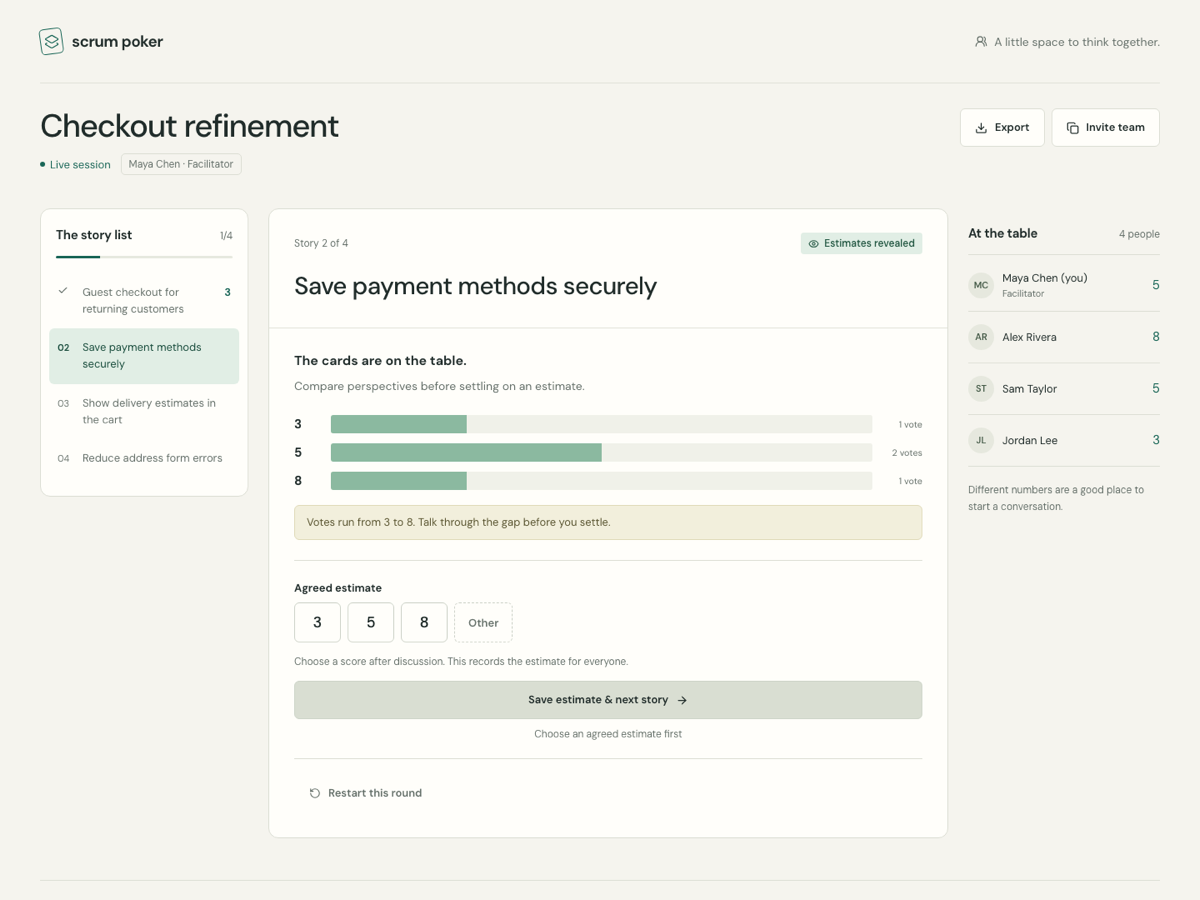
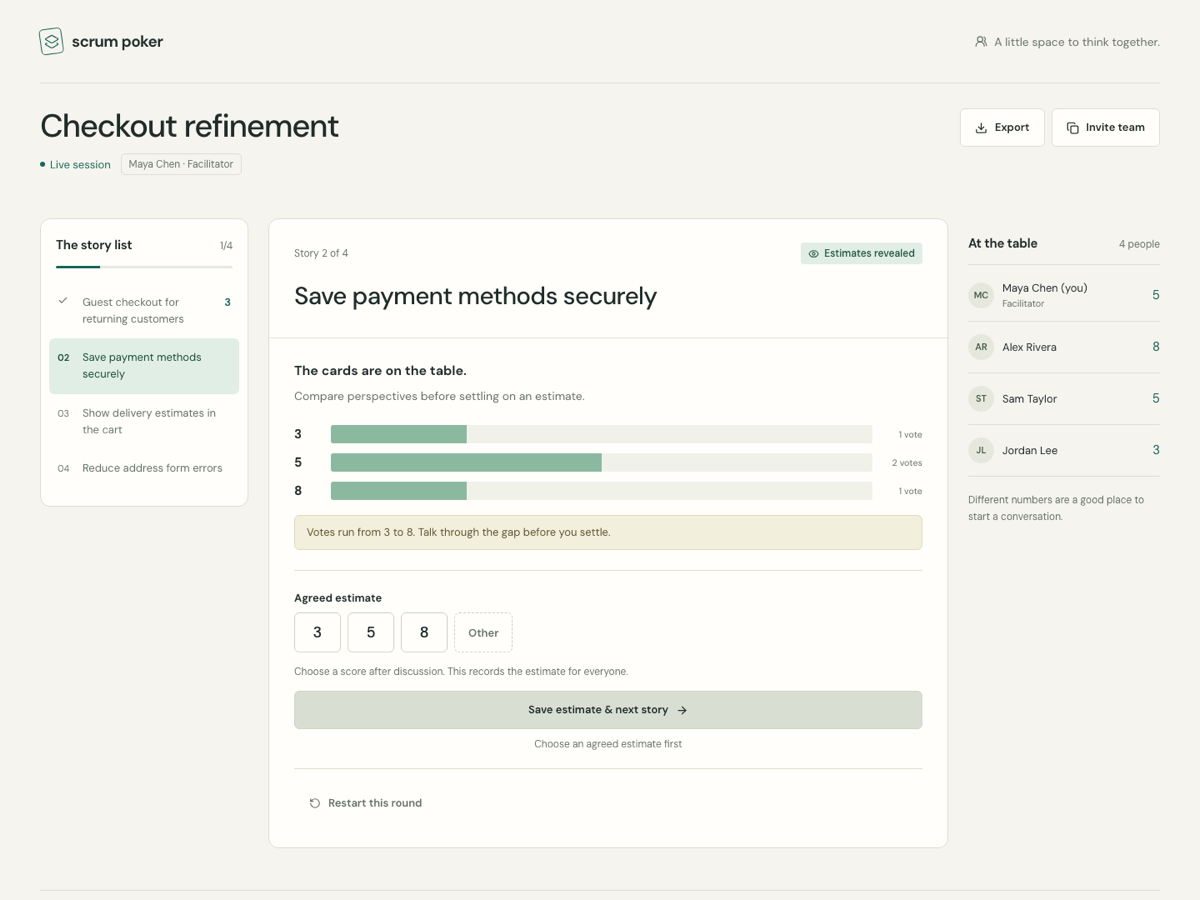
fix(room): focus confirms, clamp long titles and tidy completed state
- focus the primary action when Reveal/Restart confirms open; restore on cancel
- clamp long story titles with a Show full story toggle
- move participant focus to the first card after a round reset
- keep the Saved banner fully in the gap above the card
- hide keyboard legend on touch devices
- drop status icons from the completed roster
- update product/design docs, README and screenshots

diff --git a/src/RoomPage.tsx b/src/RoomPage.tsx
@@ -31,7 +31,7 @@ function Deck({ vote, offline, busy, onVote }: { vote: Estimate | null; offline:
   const latest = useRef({ offline, busy, onVote });
   latest.current = { offline, busy, onVote };
   const [tabStop, setTabStop] = useState(() => Math.max(0, vote ? DECK.indexOf(vote) : 0));
-  useEffect(() => { if (vote) setTabStop(DECK.indexOf(vote)); }, [vote]);
+  useEffect(() => { setTabStop(vote ? DECK.indexOf(vote) : 0); }, [vote]);
   useEffect(() => () => clearTimeout(buffer.current.timer), []);
   function focusCard(index: number) { setTabStop(index); cards.current[index]?.focus(); }
   function clearBuffer() { clearTimeout(buffer.current.timer); buffer.current = { keys: '', timer: undefined }; }
@@ -104,7 +104,14 @@ export function RoomView({ room, connection, busy, error, act, retry }: RoomView
   const [announcement, setAnnouncement] = useState('');
   const [focusTick, setFocusTick] = useState(0);
   const [restarted, setRestarted] = useState(false);
+  const [titleExpanded, setTitleExpanded] = useState(false);
+  const [titleOverflows, setTitleOverflows] = useState(false);
   const heading = useRef<HTMLHeadingElement>(null);
+  const revealButton = useRef<HTMLButtonElement>(null);
+  const revealNow = useRef<HTMLButtonElement>(null);
+  const restartButton = useRef<HTMLButtonElement>(null);
+  const resetConfirm = useRef<HTMLButtonElement>(null);
+  const returnFocus = useRef<'reveal' | 'reset' | null>(null);
   const revealHeading = useRef<HTMLHeadingElement>(null);
   const workspace = useRef<HTMLElement>(null);
   const seen = useRef({ roundId: room.roundId, story: room.currentStory, phase: room.phase });
@@ -123,7 +130,30 @@ export function RoomView({ room, connection, busy, error, act, retry }: RoomView
   const spread = spreadNote(room.participants);
   const roundStarted = !done && (revealed || votes > 0);
 
-  useEffect(() => { setConfirmReveal(false); setConfirmReset(false); }, [room.roundId, room.phase]);
+  useEffect(() => { setConfirmReveal(false); setConfirmReset(false); returnFocus.current = null; }, [room.roundId, room.phase]);
+  useEffect(() => {
+    if (confirmReveal) { revealNow.current?.focus({ preventScroll: true }); revealNow.current?.scrollIntoView?.({ block: 'nearest' }); }
+    else if (returnFocus.current === 'reveal') { returnFocus.current = null; revealButton.current?.focus(); }
+  }, [confirmReveal]);
+  useEffect(() => {
+    if (confirmReset) { resetConfirm.current?.focus({ preventScroll: true }); resetConfirm.current?.scrollIntoView?.({ block: 'nearest' }); }
+    else if (returnFocus.current === 'reset') { returnFocus.current = null; restartButton.current?.focus(); }
+  }, [confirmReset]);
+  useEffect(() => { setTitleExpanded(false); }, [room.currentStory]);
+  useEffect(() => {
+    const element = heading.current;
+    if (!element || done) { setTitleOverflows(false); return; }
+    const measure = () => {
+      const lineHeight = parseFloat(getComputedStyle(element).lineHeight) || 26;
+      const limit = window.matchMedia?.('(max-width: 760px)').matches ? 2 : 3;
+      setTitleOverflows(element.scrollHeight > lineHeight * limit + 1);
+    };
+    measure();
+    if (typeof ResizeObserver === 'undefined') return;
+    const observer = new ResizeObserver(measure);
+    observer.observe(element);
+    return () => observer.disconnect();
+  }, [currentStory?.title, done]);
   useEffect(() => { if (clipboard === 'idle') return; const timeout = setTimeout(() => setClipboard('idle'), 5000); return () => clearTimeout(timeout); }, [clipboard]);
   useEffect(() => { if (!saved) return; const timeout = setTimeout(() => setSaved(null), 10000); return () => clearTimeout(timeout); }, [saved]);
   useEffect(() => { if (saved && room.currentStory > saved.story && roundStarted) setSaved(null); }, [saved, room.currentStory, roundStarted]);
@@ -141,7 +171,9 @@ export function RoomView({ room, connection, busy, error, act, retry }: RoomView
     const active = document.activeElement;
     if (active && active !== document.body && !workspace.current?.contains(active)) return;
     if (sameRound) revealHeading.current?.focus({ preventScroll: true });
-    else if (!active?.classList.contains('estimate-card')) heading.current?.focus({ preventScroll: true });
+    else if (active?.classList.contains('estimate-card')) {
+      if (before.story === room.currentStory && room.phase === 'voting') workspace.current?.querySelector<HTMLElement>('.estimate-card')?.focus({ preventScroll: true });
+    } else heading.current?.focus({ preventScroll: true });
   }, [room.roundId, room.currentStory, room.phase]);
   useEffect(() => {
     const bar = document.querySelector('.action-bar');
@@ -201,20 +233,20 @@ export function RoomView({ room, connection, busy, error, act, retry }: RoomView
         {room.self.facilitator && saved && !done && <SavedBanner saved={saved} disabled={connection !== 'live'} onUndo={undo} />}
         <div className="paper round-paper">
           {done ? <>{room.self.facilitator && saved && <SavedBanner saved={saved} disabled={connection !== 'live'} onUndo={undo} inCard />}<div className="round-body completed-summary"><span className="complete-mark"><CheckCheck size={27} strokeWidth={1.5} /></span><h2 ref={heading} tabIndex={-1}>That’s a shared understanding.</h2><p className="muted">Every story has an agreed estimate. Your session is complete.</p><button className="button primary" onClick={exportScores}><Download size={16} />Export agreed estimates</button><div className="completion-list">{room.stories.map(story => <div className="completion-row" key={story.id}><span>{story.title}</span><strong>{story.score}</strong></div>)}</div></div></> : <>
-            <div className="round-top"><div className="round-phase"><span>Story {room.currentStory + 1} of {room.stories.length}</span><span className="phase-tag">{revealed ? <><Eye size={13} />Estimates revealed</> : <><Circle size={10} fill="currentColor" />Voting open</>}</span></div><h2 className="round-title" ref={heading} tabIndex={-1}>{currentStory?.title}</h2></div>
+            <div className="round-top"><div className="round-phase"><div className="phase-story"><span>Story {room.currentStory + 1} of {room.stories.length}</span>{titleOverflows && <button className="button subtle title-toggle" type="button" aria-expanded={titleExpanded} aria-controls="story-title" onClick={() => setTitleExpanded(!titleExpanded)}>{titleExpanded ? 'Show less' : 'Show full story'}</button>}</div><span className="phase-tag">{revealed ? <><Eye size={13} />Estimates revealed</> : <><Circle size={10} fill="currentColor" />Voting open</>}</span></div><h2 className={`round-title ${titleOverflows && !titleExpanded ? 'clamped' : ''}`} id="story-title" ref={heading} tabIndex={-1}>{currentStory?.title}</h2></div>
             <div className="round-body">
               {revealed ? <><h3 className="reveal-heading" ref={revealHeading} tabIndex={-1}>The cards are on the table.</h3><p className="muted" style={{ marginTop: 9 }}>Compare perspectives before settling on an estimate.</p>{distribution.length ? <div className="distribution" role="img" aria-label={`Revealed estimates: ${distribution.map(item => `${item.value}: ${item.count} ${item.count === 1 ? 'vote' : 'votes'}`).join(', ')}`}>{distribution.map((item, index) => <div className="distribution-row" key={item.value}><strong>{item.value}</strong><div className="distribution-bar"><span style={{ width: `${item.count / Math.max(1, votes) * 100}%`, animationDelay: `${index * 90}ms` }} /></div><small>{item.count} {item.count === 1 ? 'vote' : 'votes'}</small></div>)}</div> : <p className="notice">No votes were submitted before the reveal.</p>}
                 {spread && <p className="spread-note">{spread}</p>}
                 {room.self.facilitator ? <FinalizeForm key={room.roundId} participants={room.participants} busy={busy} locked={locked} last={room.currentStory === room.stories.length - 1} onSave={score => void finalize(score)} /> : <p className="vote-note"><UsersRound size={14} />Your facilitator will record the agreed estimate.</p>}
               </> : <>{restarted && <p className="notice restart-notice">{RESTART_MESSAGE}</p>}<div className="vote-label"><strong>{room.self.vote !== null ? `Your estimate is ${room.self.vote}` : 'Your estimate'}</strong><span>{room.self.vote !== null ? 'Only you can see it. You can change it before reveal.' : 'Private until the reveal. Pick your card.'}</span></div><Deck vote={room.self.vote} offline={connection !== 'live'} busy={busy} onVote={value => void act({ type: 'vote', estimate: value })} /><div className="deck-legend" id="deck-legend"><p><strong>?</strong> unsure or needs discussion · <strong>½</strong> half a point</p><p className="legend-keys"><span><kbd>←</kbd><kbd>→</kbd> move</span><span><kbd>Space</kbd> pick</span><span><span><kbd>1</kbd>–<kbd>21</kbd></span> type the number</span><span><kbd>H</kbd> ½</span></p></div></>}
-              {room.self.facilitator && <div className="facilitator-controls">{!revealed && <div className="action-bar"><button className="button primary full" type="button" disabled={locked || confirmReveal} onClick={reveal}><Eye size={16} /><span>Reveal <span className="wide-only">estimates</span>{votes !== total && ` · ${votes}/${total} voted`}</span></button>{votes === total && <p>Everyone has voted. Time to compare perspectives.</p>}{confirmReveal && <div className="notice reveal-confirm"><p>{missingVotes} {missingVotes === 1 ? 'person hasn’t' : 'people haven’t'} voted yet. Reveal without {missingVotes === 1 ? 'their estimate' : 'their estimates'}?</p><div className="actions-row"><button className="button primary" disabled={locked} onClick={reveal}>Reveal now</button><button className="button" onClick={() => setConfirmReveal(false)}>Keep voting</button></div></div>}</div>}
-                {confirmReset ? <div className="notice"><p>Clear everyone’s estimates and reopen voting for this story?</p><div className="actions-row"><button className="button" disabled={locked} onClick={reset}>Reset this round</button><button className="button subtle" onClick={() => setConfirmReset(false)}>Cancel</button></div></div> : <button className="button subtle" disabled={locked} onClick={() => setConfirmReset(true)}><RotateCcw size={14} />Restart this round</button>}
+              {room.self.facilitator && <div className="facilitator-controls">{!revealed && <div className="action-bar"><button className="button primary full" type="button" ref={revealButton} disabled={locked || confirmReveal} onClick={reveal}><Eye size={16} /><span>Reveal <span className="wide-only">estimates</span>{votes !== total && ` · ${votes}/${total} voted`}</span></button>{votes === total && <p>Everyone has voted. Time to compare perspectives.</p>}{confirmReveal && <div className="notice reveal-confirm"><p>{missingVotes} {missingVotes === 1 ? 'person hasn’t' : 'people haven’t'} voted yet. Reveal without {missingVotes === 1 ? 'their estimate' : 'their estimates'}?</p><div className="actions-row"><button className="button primary" ref={revealNow} disabled={locked} onClick={reveal}>Reveal now</button><button className="button" onClick={() => { returnFocus.current = 'reveal'; setConfirmReveal(false); }}>Keep voting</button></div></div>}</div>}
+                {confirmReset ? <div className="notice"><p>Clear everyone’s estimates and reopen voting for this story?</p><div className="actions-row"><button className="button" ref={resetConfirm} disabled={locked} onClick={reset}>Reset this round</button><button className="button subtle" onClick={() => { returnFocus.current = 'reset'; setConfirmReset(false); }}>Cancel</button></div></div> : <button className="button subtle" ref={restartButton} disabled={locked} onClick={() => setConfirmReset(true)}><RotateCcw size={14} />Restart this round</button>}
               </div>}
             </div>
           </>}
         </div>
       </section>
-      <aside className="team" aria-label="Team participants"><div className="rail-title"><h2>At the table</h2><span className="count">{total} {total === 1 ? 'person' : 'people'}</span></div><ul className="people">{room.participants.map(person => <li className="person" key={person.id}><span className="avatar" aria-hidden="true">{person.name.trim().split(/\s+/).slice(0, 2).map(part => part[0]).join('').toUpperCase()}</span><div className="person-details"><div className="person-name">{person.name}{person.id === room.self.id ? ' (you)' : ''}</div>{(person.facilitator || !person.online) && <div className="person-role">{[person.facilitator && 'Facilitator', !person.online && 'Away'].filter(Boolean).join(' · ')}</div>}</div><span className={`person-status ${!person.hasVoted ? 'waiting' : ''}`}><Status person={person} done={done} revealed={revealed} /></span></li>)}</ul><p className="team-note">{done ? 'Keep this room link to revisit the agreed estimates. Rooms expire seven days after creation.' : revealed ? 'Different numbers are a good place to start a conversation.' : <><LockKeyhole size={12} style={{ verticalAlign: -2, marginRight: 4 }} />Estimates are hidden until the facilitator reveals them.</>}</p></aside>
+      <aside className="team" aria-label="Team participants"><div className="rail-title"><h2>At the table</h2><span className="count">{total} {total === 1 ? 'person' : 'people'}</span></div><ul className="people">{room.participants.map(person => <li className="person" key={person.id}><span className="avatar" aria-hidden="true">{person.name.trim().split(/\s+/).slice(0, 2).map(part => part[0]).join('').toUpperCase()}</span><div className="person-details"><div className="person-name">{person.name}{person.id === room.self.id ? ' (you)' : ''}</div>{(person.facilitator || !person.online) && <div className="person-role">{[person.facilitator && 'Facilitator', !person.online && 'Away'].filter(Boolean).join(' · ')}</div>}</div>{!done && <span className={`person-status ${!person.hasVoted ? 'waiting' : ''}`}><Status person={person} done={done} revealed={revealed} /></span>}</li>)}</ul><p className="team-note">{done ? 'Keep this room link to revisit the agreed estimates. Rooms expire seven days after creation.' : revealed ? 'Different numbers are a good place to start a conversation.' : <><LockKeyhole size={12} style={{ verticalAlign: -2, marginRight: 4 }} />Estimates are hidden until the facilitator reveals them.</>}</p></aside>
     </div>
   </main>;
 }

diff --git a/src/index.css b/src/index.css
@@ -87,7 +87,7 @@ svg { flex-shrink: 0; }
 .join-paper { width: 100%; max-width: 480px; padding: 36px; }
 .join-paper h1 { font-size: 2.2rem; margin-bottom: 14px; }
 .join-paper form { margin-top: 28px; }
-.room-top { display: flex; align-items: start; justify-content: space-between; gap: 24px; padding: 30px 0 40px; }
+.room-top { display: flex; align-items: start; justify-content: space-between; gap: 24px; padding: 30px 0 52px; }
 .room-top h1 { font-size: clamp(1.75rem, 3vw, 2.4rem); letter-spacing: -.035em; }
 .room-top > div { min-width: 0; }
 .room-top h1, .identity { overflow-wrap: anywhere; }
@@ -117,6 +117,9 @@ svg { flex-shrink: 0; }
 .round-top { padding: 28px 30px; border-bottom: 1px solid var(--line); }
 .round-phase { display: flex; align-items: center; justify-content: space-between; gap: 16px; color: var(--muted); font-size: 12px; margin-bottom: 18px; }
 .phase-tag { display: inline-flex; align-items: center; gap: 6px; background: var(--mint); color: #245843; padding: 5px 9px; border-radius: 4px; font-weight: 550; }
+.round-title.clamped { display: -webkit-box; -webkit-box-orient: vertical; -webkit-line-clamp: 3; line-clamp: 3; overflow: hidden; }
+.phase-story { display: flex; align-items: center; gap: 6px; min-width: 0; }
+.title-toggle { min-height: 32px; margin: -8px 0; padding: 4px 10px; font-size: 12px; }
 .round-title { font-size: clamp(1.4rem, 2.2vw, 1.85rem); font-weight: 500; line-height: 1.4; overflow-wrap: anywhere; }
 .round-body { padding: 28px 30px 30px; }
 .round-body > .muted { line-height: 1.6; }
@@ -134,7 +137,7 @@ svg { flex-shrink: 0; }
 .legend-keys { display: flex; flex-wrap: wrap; gap: 6px 16px; }
 .legend-keys > span { display: inline-flex; align-items: center; gap: 4px; }
 kbd { font: inherit; font-size: 12px; font-weight: 600; color: var(--ink); min-width: 24px; padding: 1px 6px 0; text-align: center; background: var(--paper); border: 1px solid #cdd4c8; border-bottom-width: 2px; border-radius: 4px; line-height: 1.5; }
-@media (pointer: coarse) { .legend-keys { display: none; } }
+@media (hover: none), (pointer: coarse) { .legend-keys { display: none; } }
 .vote-note { font-size: 12px; color: var(--muted); display: flex; gap: 7px; align-items: center; line-height: 1.6; margin-top: 20px; min-height: 24px; }
 .vote-note.selected { color: var(--teal); }
 .facilitator-controls { margin-top: 18px; padding: 18px 0 0; border-top: 1px solid var(--line); }
@@ -175,7 +178,7 @@ kbd { font: inherit; font-size: 12px; font-weight: 600; color: var(--ink); min-w
 .score-choice:hover span, .score-other:hover { border-color: var(--teal); background: #eeefe8; }
 .score-choice input:checked + span { background: var(--teal); border-color: var(--teal); color: #f6fff7; }
 .score-choice input:focus-visible + span { outline: 3px solid #317d6d; outline-offset: 3px; }
-.saved-note { position: absolute; z-index: 10; top: -34px; inset-inline: 12px; overflow: hidden; display: flex; align-items: center; justify-content: space-between; gap: 12px; padding: 2px 6px 2px 16px; background: var(--mint); color: #174b3b; border: 1px solid #c4dccb; border-radius: 8px; font-size: 13px; font-weight: 550; box-shadow: 0 12px 20px -14px #2d4a3599; animation: saved-life 10s linear forwards; }
+.saved-note { position: absolute; z-index: 10; top: -44px; inset-inline: 12px; overflow: hidden; display: flex; align-items: center; justify-content: space-between; gap: 12px; padding: 2px 6px 2px 16px; background: var(--mint); color: #174b3b; border: 1px solid #c4dccb; border-radius: 8px; font-size: 13px; font-weight: 550; box-shadow: 0 12px 20px -14px #2d4a3599; animation: saved-life 10s linear forwards; }
 .saved-note.in-card { position: relative; top: auto; inset-inline: auto; margin: 0; border-width: 0 0 1px; border-radius: 0; box-shadow: none; }
 @keyframes saved-life { 0% { opacity: 0; transform: translateY(-8px); } 3% { opacity: 1; transform: none; } 94% { opacity: 1; } 100% { opacity: 0; } }
 .saved-timer { position: absolute; inset: auto 0 0 0; height: 2px; background: #8bb9a0; transform-origin: left; animation: saved-countdown 10s linear forwards; }
@@ -187,7 +190,7 @@ h1[tabindex="-1"]:focus, h2[tabindex="-1"]:focus, h3[tabindex="-1"]:focus { outl
 .agenda.complete { display: none; }
 .saved-text { min-width: 0; overflow-wrap: anywhere; }
 .saved-note .saved-text { overflow: hidden; text-overflow: ellipsis; white-space: nowrap; }
-.saved-note .button { min-height: 40px; color: #174b3b; }
+.saved-note .button { min-height: 30px; padding-block: 2px; color: #174b3b; }
 .finalize-form .button { width: 100%; }
 .completed-summary { text-align: center; padding: 24px 30px; }
 .completed-summary .complete-mark { color: var(--teal); display: inline-grid; place-items: center; width: 56px; height: 56px; background: var(--mint); border-radius: 50%; margin-bottom: 22px; }
@@ -230,13 +233,14 @@ h1[tabindex="-1"]:focus, h2[tabindex="-1"]:focus, h3[tabindex="-1"]:focus { outl
   .ritual { display: none; }
   .setup-paper { padding: 25px 23px; }
   .setup-paper h2 { font-size: 1.35rem; }
-  .room-top { padding: 27px 0 38px; flex-direction: column; gap: 18px; }
+  .room-top { padding: 27px 0 52px; flex-direction: column; gap: 18px; }
   .room-actions { justify-content: start; width: 100%; }
   .room-layout { display: flex; flex-direction: column; gap: 24px; }
   .workspace { order: 0; width: 100%; }
   .team { order: 1; width: 100%; padding-top: 0; }
   .agenda { order: 2; width: 100%; }
   .round-top, .round-body { padding: 23px 21px; }
+  .round-title.clamped { -webkit-line-clamp: 2; line-clamp: 2; }
   .estimate-grid { gap: 7px; }
   .estimate-card { min-height: 84px; }
   .estimate-card .estimate-value { font-size: 25px; }

diff --git a/src/RoomPage.test.tsx b/src/RoomPage.test.tsx
@@ -347,8 +347,51 @@ describe('Discussion and completion', () => {
     rerender(<RoomView {...props} room={snapshot({ roundId: 'round-two', currentStory: 1, revision: 2, self: guest })} />);
     expect(screen.getByRole('button', { name: 'Invite team' })).toHaveFocus();
     screen.getByRole('radio', { name: 'Estimate 5' }).focus();
-    rerender(<RoomView {...props} room={snapshot({ roundId: 'round-three', revision: 3, self: guest })} />);
+    rerender(<RoomView {...props} room={snapshot({ roundId: 'round-three', currentStory: 0, revision: 3, self: guest })} />);
     expect(screen.getByRole('radio', { name: 'Estimate 5' })).toHaveFocus();
+  });
+
+  it('moves a participant’s deck focus to the first card when the round is reset', () => {
+    const guest = { id: 'guest', facilitator: false, vote: '5' as const };
+    const { rerender, ...props } = view(snapshot({ self: guest }));
+    screen.getByRole('radio', { name: 'Estimate 5' }).focus();
+    rerender(<RoomView {...props} room={snapshot({ roundId: 'round-two', revision: 2, self: { ...guest, vote: null } })} />);
+    const first = screen.getByRole('radio', { name: 'Estimate 0' });
+    expect(first).toHaveFocus();
+    expect(first.tabIndex).toBe(0);
+    expect(screen.getByRole('radio', { name: 'Estimate 5' })).not.toBeChecked();
+  });
+
+  it('moves focus into inline confirms and back on cancel', async () => {
+    const user = userEvent.setup();
+    view();
+    await user.click(screen.getByRole('button', { name: /Reveal estimates/ }));
+    expect(screen.getByRole('button', { name: 'Reveal now' })).toHaveFocus();
+    await user.click(screen.getByRole('button', { name: 'Keep voting' }));
+    expect(screen.getByRole('button', { name: /Reveal estimates/ })).toHaveFocus();
+    await user.click(screen.getByRole('button', { name: 'Restart this round' }));
+    expect(screen.getByRole('button', { name: 'Reset this round' })).toHaveFocus();
+    await user.click(screen.getByRole('button', { name: 'Cancel' }));
+    expect(screen.getByRole('button', { name: 'Restart this round' })).toHaveFocus();
+  });
+
+  it('clamps a long story title behind a toggle only when it overflows', async () => {
+    const user = userEvent.setup();
+    view();
+    expect(screen.queryByRole('button', { name: 'Show full story' })).not.toBeInTheDocument();
+    cleanup();
+    Object.defineProperty(HTMLElement.prototype, 'scrollHeight', { configurable: true, get: () => 500 });
+    try {
+      view();
+      const title = screen.getByRole('heading', { name: 'Improve search relevance' });
+      const toggle = screen.getByRole('button', { name: 'Show full story' });
+      expect(toggle).toHaveAttribute('aria-expanded', 'false');
+      expect(toggle).toHaveAttribute('aria-controls', title.id);
+      expect(title).toHaveClass('clamped');
+      await user.click(toggle);
+      expect(screen.getByRole('button', { name: 'Show less' })).toHaveAttribute('aria-expanded', 'true');
+      expect(title).not.toHaveClass('clamped');
+    } finally { delete (HTMLElement.prototype as { scrollHeight?: number }).scrollHeight; }
   });
 
   it('puts the facilitator’s primary action in a bar and trims redundant notes', () => {
@@ -402,5 +445,8 @@ describe('Discussion and completion', () => {
     expect(screen.getByRole('progressbar')).toHaveAttribute('aria-valuenow', '2');
     expect(screen.getAllByText('Add saved filters')).toHaveLength(1);
     expect(screen.queryByRole('list', { name: /./ })).not.toBeInTheDocument();
+    const team = screen.getByRole('complementary', { name: 'Team participants' });
+    expect(within(team).getByText('Robin (you)')).toBeVisible();
+    expect(team.querySelector('.person-status')).toBeNull();
   });
 });

diff --git a/DESIGN.md b/DESIGN.md
@@ -193,14 +193,15 @@ Paper surfaces use 12px corners. Controls use 6px, estimate cards 8px, state tag
 - **Fields:** persistent visible labels, paper fills, gray-green strokes, clear placeholders, and adjacent practical help. Native required validation and bounded lengths support the server constraints.
 - **Facilitator action bar:** the primary round action (Reveal while voting, Save after reveal) lives in an `action-bar`. Above 760px it is a normal block, kept above the fold at 1440×900 by merging the privacy note into the “Your estimate” line (“Private until the reveal. Pick your card.”), putting the legend on one row, and showing the reveal hint only when everyone has voted. At ≤760px it sticks to the bottom of the viewport with a paper background, top hairline and safe-area padding, and cards and other focused content are scrolled clear of it using the bar's measured height; Restart stays in flow below. Participants have no bar. Opening a room scrolls to the top.
 - **Roster:** the “At the table” list is a single aligned column at ≤760px.
-- **Estimate deck:** a `radiogroup` of native buttons with `role="radio"` and `aria-checked`, one Tab stop (roving tabindex), an explicit selected check and large tabular numerals. Arrow keys, Home and End move focus only; Space or Enter picks, and a number, `H` or `/` (½), or `?` key picks directly. Digits are buffered for 600ms so `1` then `3` picks 13 and `2` then `1` picks 21; other digits pick immediately. Cards read as physical stock (hover lift only on fine hover pointers, never sticky on touch): a single 1px border, a solid 3px bottom edge, and a 5px selected lift. A legend beneath explains `?` (unsure or needs discussion) and `½` in short text, with the shortcuts as small DM Sans key-cap chips (← → move · Space pick · 1–21 type the number · H ½); the chips are hidden on coarse pointers. Selection is authoritative server state, not optimistic local state. While a request is in flight cards stay focusable (`aria-disabled`).
+- **Long story titles:** the story title in the workspace clamps to 3 lines (2 at ≤760px) only when it overflows (measured, re-measured on resize), with a “Show full story” / “Show less” text button (`aria-expanded`, `aria-controls`). The heading's accessible text is always the full title; the story list rail and completed list keep their own treatment.
+- **Estimate deck:** a `radiogroup` of native buttons with `role="radio"` and `aria-checked`, one Tab stop (roving tabindex), an explicit selected check and large tabular numerals. Arrow keys, Home and End move focus only; Space or Enter picks, and a number, `H` or `/` (½), or `?` key picks directly. Digits are buffered for 600ms so `1` then `3` picks 13 and `2` then `1` picks 21; other digits pick immediately. Cards read as physical stock (hover lift only on fine hover pointers, never sticky on touch): a single 1px border, a solid 3px bottom edge, and a 5px selected lift. A legend beneath explains `?` (unsure or needs discussion) and `½` in short text, with the shortcuts as small DM Sans key-cap chips (← → move · Space pick · 1–21 type the number · H ½); the chips are hidden on touch devices (`hover: none` or coarse pointers) while the `?`/`½` meanings stay. Selection is authoritative server state, not optimistic local state. While a request is in flight cards stay focusable (`aria-disabled`).
 - **Story progress:** ordered list with a mint active row, numeric finalized scores, titles clamped to two lines (full title in the `title` attribute and the workspace), and a labeled progressbar. When the session is complete the list is replaced by the completion list in the workspace (the rail keeps only progress, hidden on mobile).
-- **Roster:** initials, name, a Facilitator label (participants carry none), Away presence, and concealed/revealed vote state as real text (visually hidden beside the icon). Away participants remain visible.
+- **Roster:** initials, name, a Facilitator label (participants carry none), Away presence, and concealed/revealed vote state as real text (visually hidden beside the icon). Away participants remain visible. Once the session is complete the per-person status icons are dropped (they carry no information); names and roles remain.
 - **Distribution:** labeled, noninteractive bars appear only after reveal and grow in with a short stagger. A guidance note appears when the highest and lowest numeric votes are two or more deck steps apart; it never blocks saving.
 - **Finalize choices:** the agreed score is a radio group of the distinct numeric values that were voted (deck order), an “Other” disclosure for the remaining numeric values, and a Save button. Never an automatically chosen average.
-- **Undo confirmation:** after Save the facilitator sees a mint “Saved <score> for <story>” banner with an Undo button (named “Undo saving <score> for <story>”), anchored to the top edge of the workspace card (mostly in the 40px gap above it and 12px into its top padding, clear of the phase tag, so it never covers the title or deck and adds no layout space; after Save the page scrolls the workspace top into view if it was above the viewport); it fades in and out (opacity and transform only, none under reduced motion) and a thin aria-hidden line shrinks across its bottom edge. It disappears after about 10 seconds or once the next round has a vote or reveal, and the save is announced through the polite status region. On the completed screen the same banner sits as a compact strip at the top of the completed card. Focus moves to the story heading.
+- **Undo confirmation:** after Save the facilitator sees a mint “Saved <score> for <story>” banner with an Undo button (named “Undo saving <score> for <story>”), anchored to the top edge of the workspace card (a compact 36px strip sitting entirely in the 52px gap above the card, clear of the room meta row, phase tag and title, so it never covers them and adds no layout space; after Save the page scrolls the workspace top into view if it was above the viewport); it fades in and out (opacity and transform only, none under reduced motion) and a thin aria-hidden line shrinks across its bottom edge. It disappears after about 10 seconds or once the next round has a vote or reveal, and the save is announced through the polite status region. On the completed screen the same banner sits as a compact strip at the top of the completed card. Focus moves to the story heading.
 - **Feedback:** one visually hidden polite status region announces connection, clipboard and vote changes; visible notices carry no live role of their own. Also: live status, clear errors, reconnect recovery, truthful clipboard success, a visible manual-copy fallback, and storage warnings. Offline actions disable until the authenticated stream reconnects.
-- **Round changes:** when a reset reopens the same story, participants see an inline notice “The facilitator restarted this round. Vote again.” (also announced politely) until they vote or the story changes. Focus never drops to the page body: when the room opens (after create or join), the story changes, or the round resets, focus moves to the story heading, and when the round becomes revealed it moves to the “The cards are on the table.” heading. This only happens if focus was on the body or in the workspace; a focused deck card or a control outside the workspace (e.g. invite) is left alone. A completed room shows “Complete” instead of “Live session” and hides the story-progress card on desktop as on mobile.
+- **Round changes:** when a reset reopens the same story, participants see an inline notice “The facilitator restarted this round. Vote again.” (also announced politely) until they vote or the story changes. Focus never drops to the page body: when the room opens (after create or join), the story changes, or the round resets, focus moves to the story heading, and when the round becomes revealed it moves to the “The cards are on the table.” heading. This only happens if focus was on the body or in the workspace; a focused deck card on a story change or a control outside the workspace (e.g. invite) is left alone. On a round reset a participant whose focus was on a deck card is moved to the first card (the deck's roving item, since nothing is selected). Inline confirms never strand focus: opening “Reveal without votes” or “Restart this round” focuses the confirm's primary action (scrolled into view if needed), and Cancel returns focus to the button that opened it. A completed room shows “Complete” instead of “Live session” and hides the story-progress card on desktop as on mobile.
 - **Focus and motion:** 3px teal keyboard focus rings with 4px offset on interactive controls (programmatically focused `tabindex=-1` headings carry no ring), tinted selection/caret/scrollbars, short card state transitions, and reduced-motion overrides. Content is never hidden behind an entrance animation.
 
 ## Do's and Don'ts

diff --git a/README.md b/README.md
@@ -6,7 +6,7 @@ A calm, shared worksheet for team estimation. Bring a story list, invite your te
 
 [Quickstart](#quickstart) · [How it works](#how-it-works) · [Deployment](#deployment) · [Development](#development) · [Security](SECURITY.md)
 
-![Scrum Poker voting screen with a private estimate deck, the facilitator's selected card, and the team roster showing who has voted](docs/images/voting.webp)
+![Scrum Poker voting screen with a private estimate deck, the facilitator's selected card, a one-line keyboard legend, the Reveal button with its vote count, and the team roster showing who has voted](docs/images/voting.webp)
 <sub>Voting stays private: the roster shows who has voted, never what they chose.</sub>
 
 ![Scrum Poker room showing story progress, revealed estimates with a wide-spread note, score choices, facilitator controls, and the team roster](docs/images/room.webp)
@@ -48,7 +48,8 @@ The deck is **0 · ½ · 1 · 2 · 3 · 5 · 8 · 13 · 21 · ?**. The question 
 - **One room for both roles:** shared voting, story progress, presence, revealed distribution, and role-specific facilitator controls.
 - **Live, not noisy:** authenticated server-sent snapshots; polling only while disconnected, automatic reconnect, and stale-update protection.
 - **Durable decisions:** SQLite commits accepted commands before sending success or updates. Reloading restores the saved room identity when browser storage is available.
-- **Useful on a small screen:** the active story comes first on mobile, with native controls, keyboard focus, and reduced-motion support.
+- **Fast from the keyboard:** arrows move, Space picks, type a number (13, 21), `H` for ½, `?` for unsure; focus is kept in place through reveals, resets and story changes.
+- **Useful on a small screen:** the active story comes first on mobile, the facilitator's Reveal and Save stay pinned to the bottom of the screen, and long story titles collapse behind a “Show full story” toggle.
 
 ## Deployment
 

diff --git a/PRODUCT.md b/PRODUCT.md
@@ -8,10 +8,10 @@ Scrum Poker is a small, synchronous estimation worksheet for a team discussing a
 
 1. Create a session with facilitator name, title, and one story per line. Empty lines are discarded by the form.
 2. Share the random `/rooms/:id` link. Invitees join with a display name; matching names never reuse or replace an existing identity.
-3. Select or change a private estimate. Teammates see only whether a person has voted. The caller sees their own saved estimate.
+3. Select or change a private estimate, by pointer or keyboard (arrows, Space, typed numbers such as 13 or 21, `H` or `/` for ½, `?`). Teammates see only whether a person has voted. The caller sees their own saved estimate. Very long story titles are clamped with a “Show full story” toggle so the deck and Reveal stay in view.
 4. The facilitator reveals at any time, including when someone is away. The distribution and individual estimates become visible to all room members.
 5. Discuss, then choose a final score from the numeric deck. Finalizing advances to the next story automatically; the facilitator sees a short “Saved” confirmation with an Undo that reopens the story with its votes until the next round receives a vote (about 10 seconds in the UI). A wide spread of votes is flagged as guidance before saving.
-6. Reset the current story if another private round is useful. Reset changes the round ID, invalidates old requests, and removes all votes.
+6. Reset the current story if another private round is useful. Reset changes the round ID, invalidates old requests, and removes all votes; participants see a short “The facilitator restarted this round. Vote again.” notice and keyboard focus returns to the first card.
 7. Complete the list and export the agreed story scores as formula-safe CSV.
 
 ## Identities and connectivity
